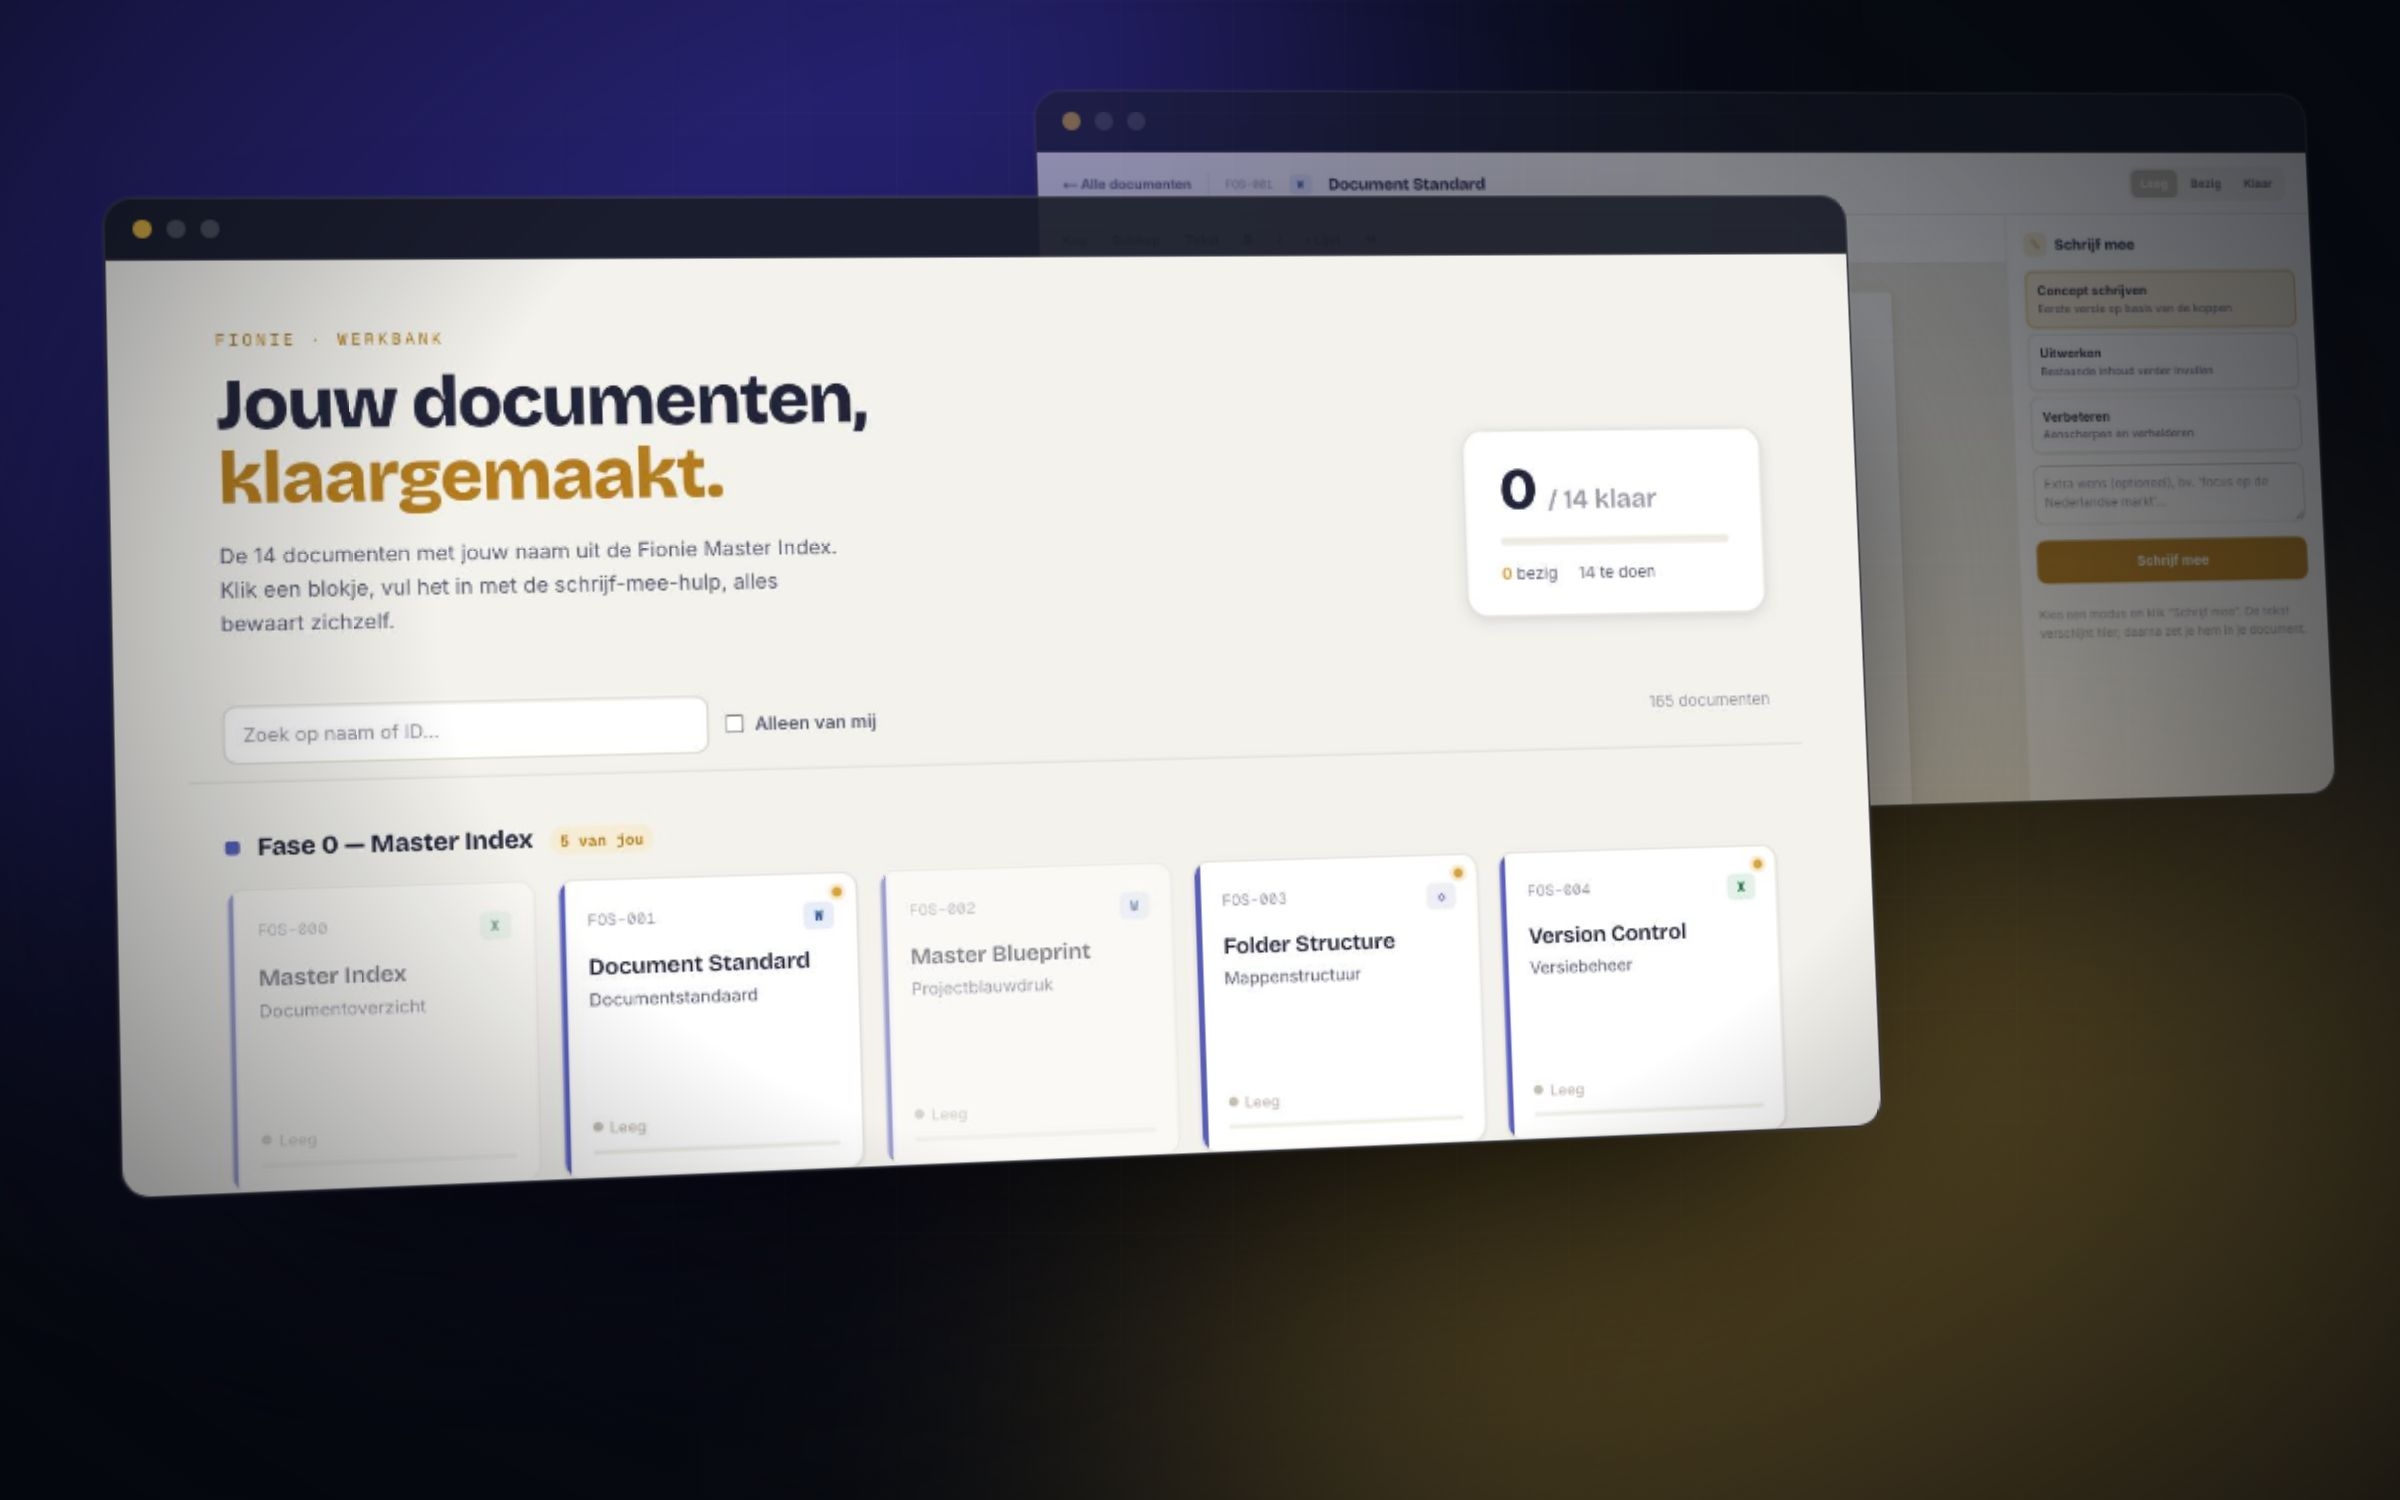
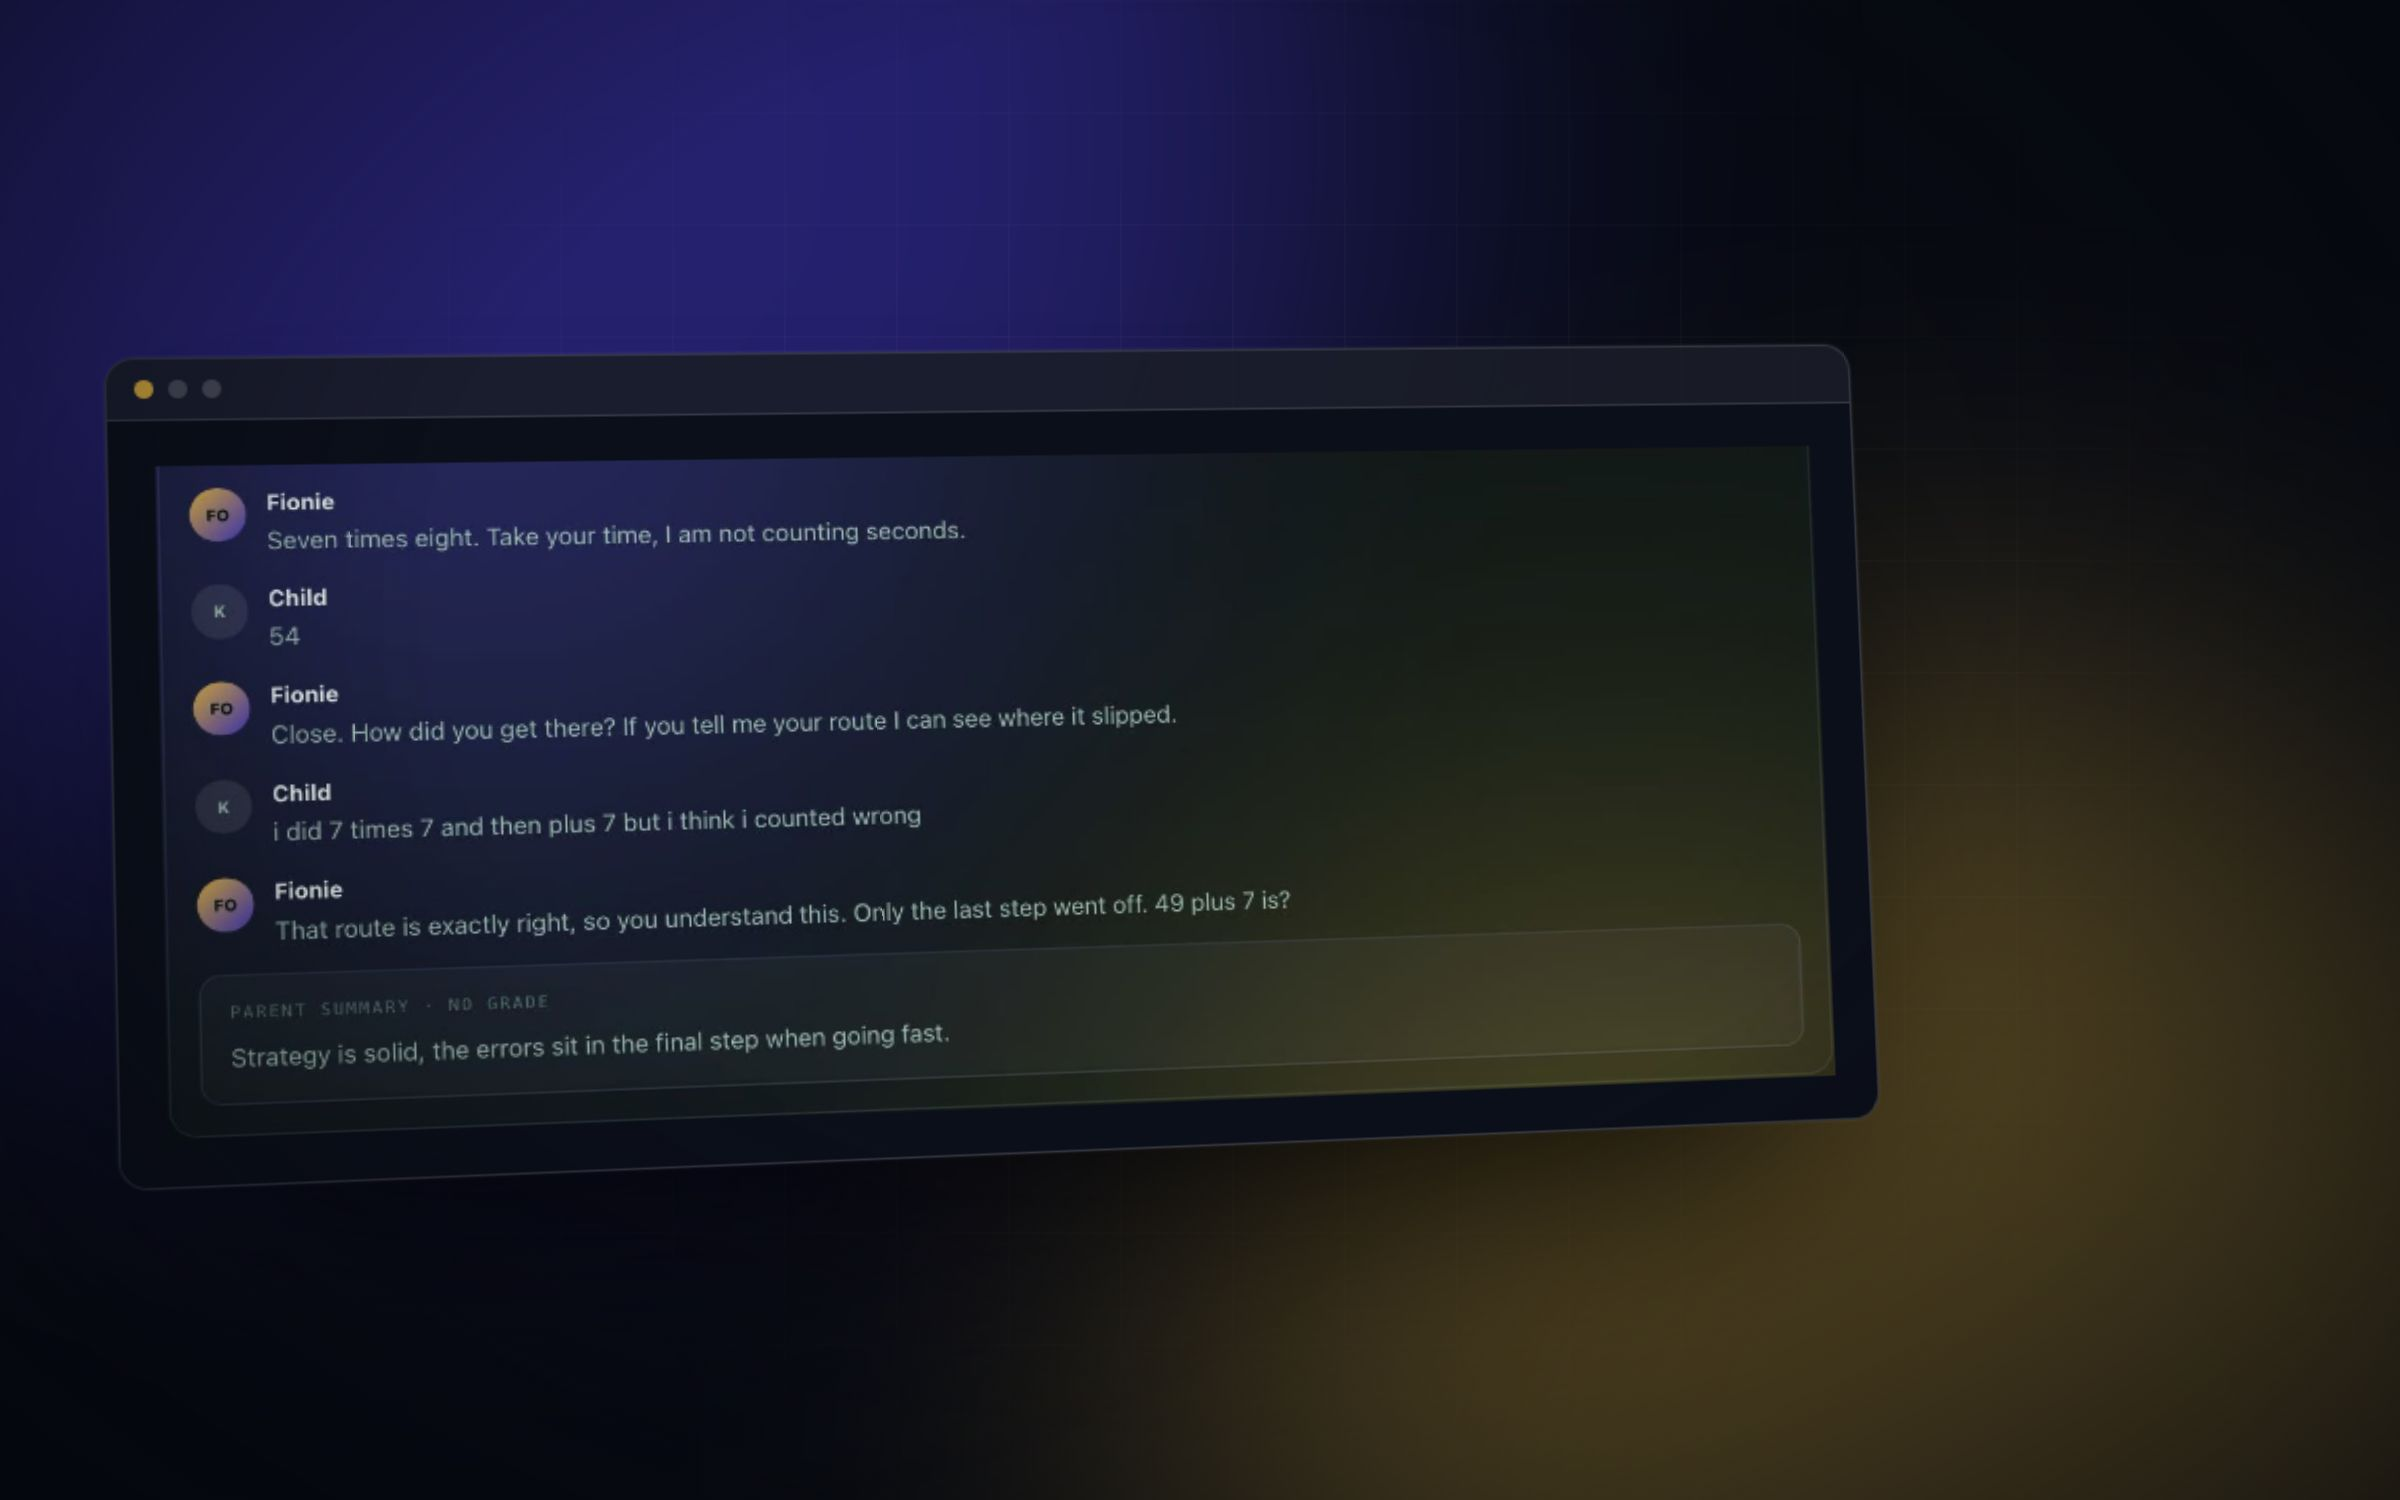
fix: Fionie leads with the teacher, not the document tool
The cover and the gallery opened on the writing workbench, which made the
project look like a document tool. The companion conversation is now the
cover and the first screen; the workbench sits behind it, labelled as what
it is. The opening paragraph is about the child again.

diff --git a/src/components/Preview.tsx b/src/components/Preview.tsx
@@ -82,8 +82,9 @@ export const SHOTS: Record<string, Shot[]> = {
     { file: "koekkoekk--mobile.jpg", label: "on a phone", kind: "phone", note: "Where this is actually used." },
   ],
   fionie: [
-    { file: "fionie-docs--dashboard.jpg", label: "the workbench", note: "Where Fionie's founding documents get written: all 165 from the master index, my fourteen lit up and the rest read only." },
-    { file: "fionie-docs--editor.jpg", label: "editor and assist rail", note: "Never a blank page: a starting structure on the left, the AI writing into a preview on the right that you insert or ignore." },
+    { file: "panel--fionie.jpg", label: "the companion", note: "This is Fionie itself: the child answers wrong, gets no verdict, and is asked how they got there. Designed and written down, not built yet, and the two screens beside this are the workbench where its founding documents are written." },
+    { file: "fionie-docs--dashboard.jpg", label: "the workbench", note: "Behind the product: all 165 documents from the master index, my fourteen lit up and the rest read only. This one exists and runs today." },
+    { file: "fionie-docs--editor.jpg", label: "writing along", note: "Never a blank page: a starting structure on the left, the AI writing into a preview on the right that you insert or ignore." },
   ],
   "os-demo": [
     { file: "os-demo--dashboard.jpg", label: "the dashboard", note: "Real handmade interface, not a picture of one. Revenue, cashflow, the action list and what each brain did." },
@@ -539,40 +540,6 @@ const PREVIEWS: Record<string, { caption: ReactNode; node: ReactNode }> = {
     ),
   },
 
-
-  fionie: {
-    caption: (
-      <>
-        The child is not marked right or wrong. Fionie asks how they got there, because{" "}
-        <b>the reasoning is the thing worth rewarding.</b>
-      </>
-    ),
-    node: (
-      <Frame label="fionie · understanding first">
-        <div className="pv-chat">
-          <Msg who="Fionie" at="" avatar="FO" bot>
-            Seven times eight. Take your time, I am not counting seconds.
-          </Msg>
-          <Msg who="Child" at="" avatar="K">
-            54
-          </Msg>
-          <Msg who="Fionie" at="" avatar="FO" bot>
-            Close. How did you get there? If you tell me your route I can see where it slipped.
-          </Msg>
-          <Msg who="Child" at="" avatar="K">
-            i did 7 times 7 and then plus 7 but i think i counted wrong
-          </Msg>
-          <Msg who="Fionie" at="" avatar="FO" bot>
-            That route is exactly right, so you understand this. Only the last step went off. 49 plus 7 is?
-          </Msg>
-        </div>
-        <div className="pv-card" style={{ marginTop: ".9rem" }}>
-          <div className="pv-h">parent summary · no grade</div>
-          <div className="pv-txt">Strategy is solid, the errors sit in the final step when going fast.</div>
-        </div>
-      </Frame>
-    ),
-  },
 
   maya: {
     caption: (

diff --git a/src/content/projects.ts b/src/content/projects.ts
@@ -600,7 +600,7 @@ export const PROJECTS: Project[] = [
     idea: {
       title: "A companion you **do not lose**",
       lead:
-        "An AI companion that follows a person from about four years old into their career, carrying one continuous learning profile that travels with them. Not a tutor for a subject but continuity: it knows how you learn, across years. Beside the product I built the workbench where its founding documents get written, because a company like this starts as a stack of decisions before it is a line of code.",
+        "An AI companion that follows a person from about four years old into their career, carrying one continuous learning profile that travels with them. Not a tutor for a subject but continuity: it knows how you learn, across years. It asks how you got to an answer instead of marking it wrong, because the reasoning is the part worth rewarding.",
     },
     why: {
       title: "Education sorts children by **grades**",
